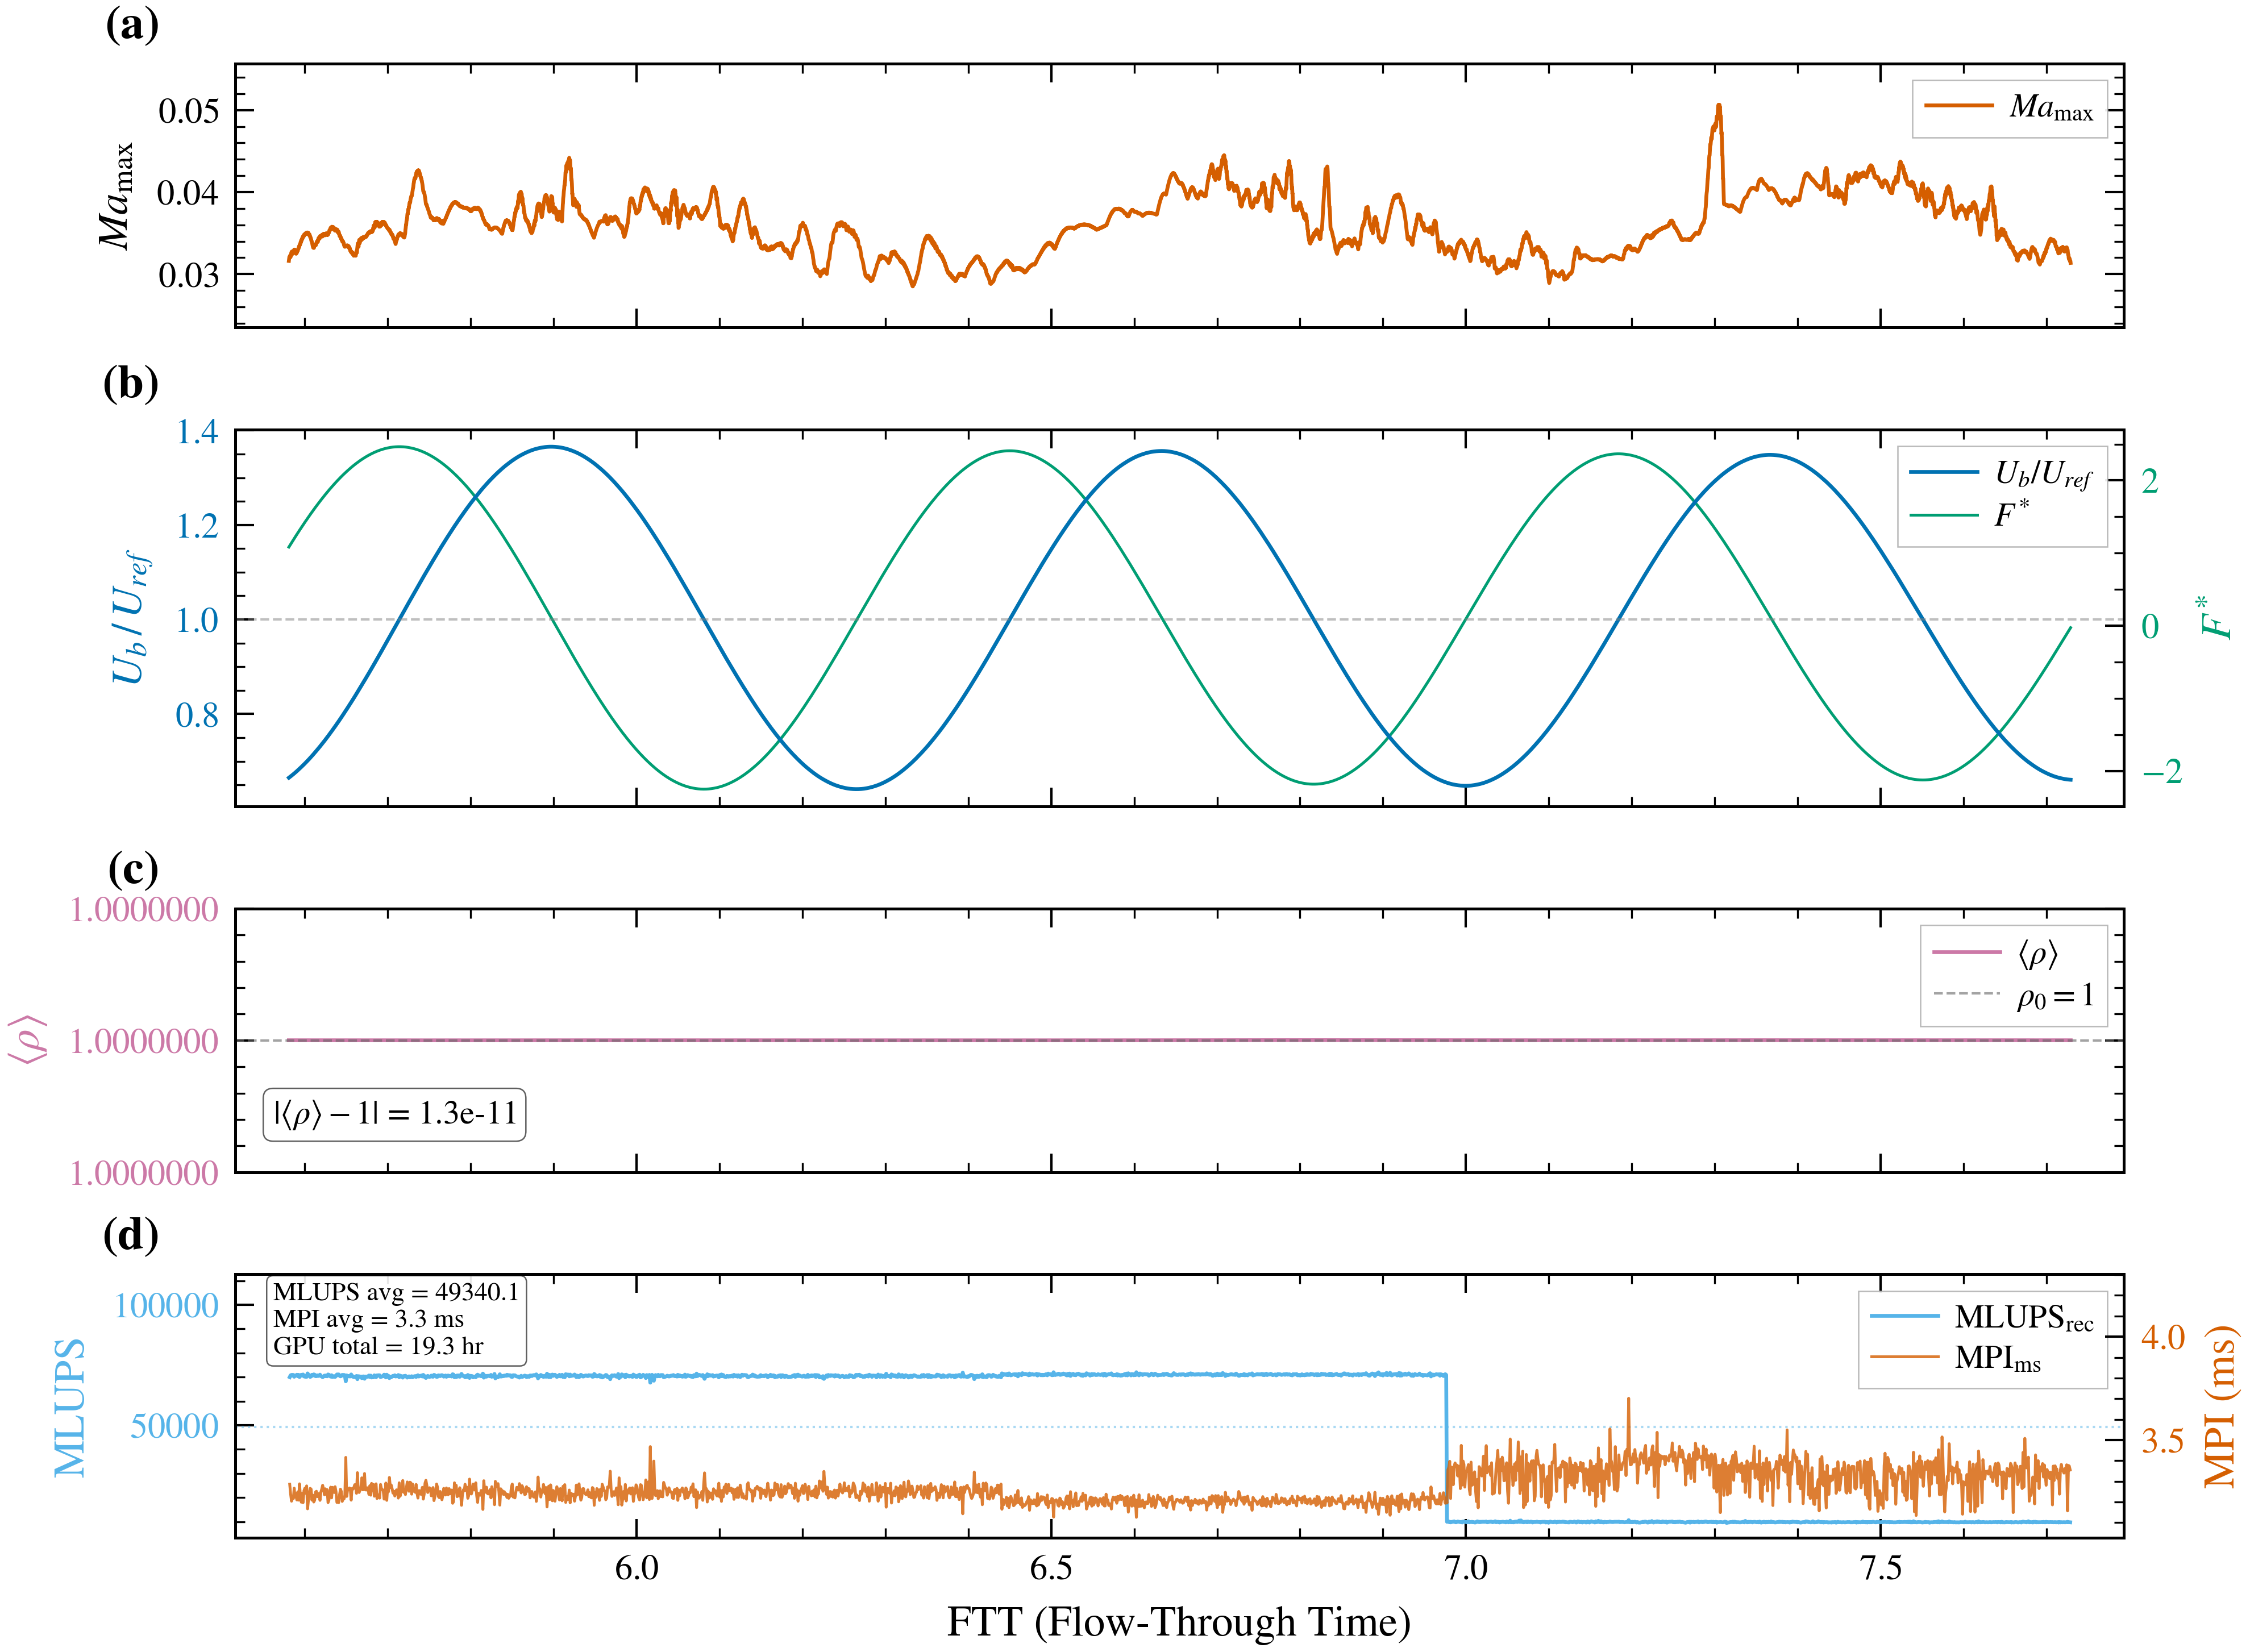
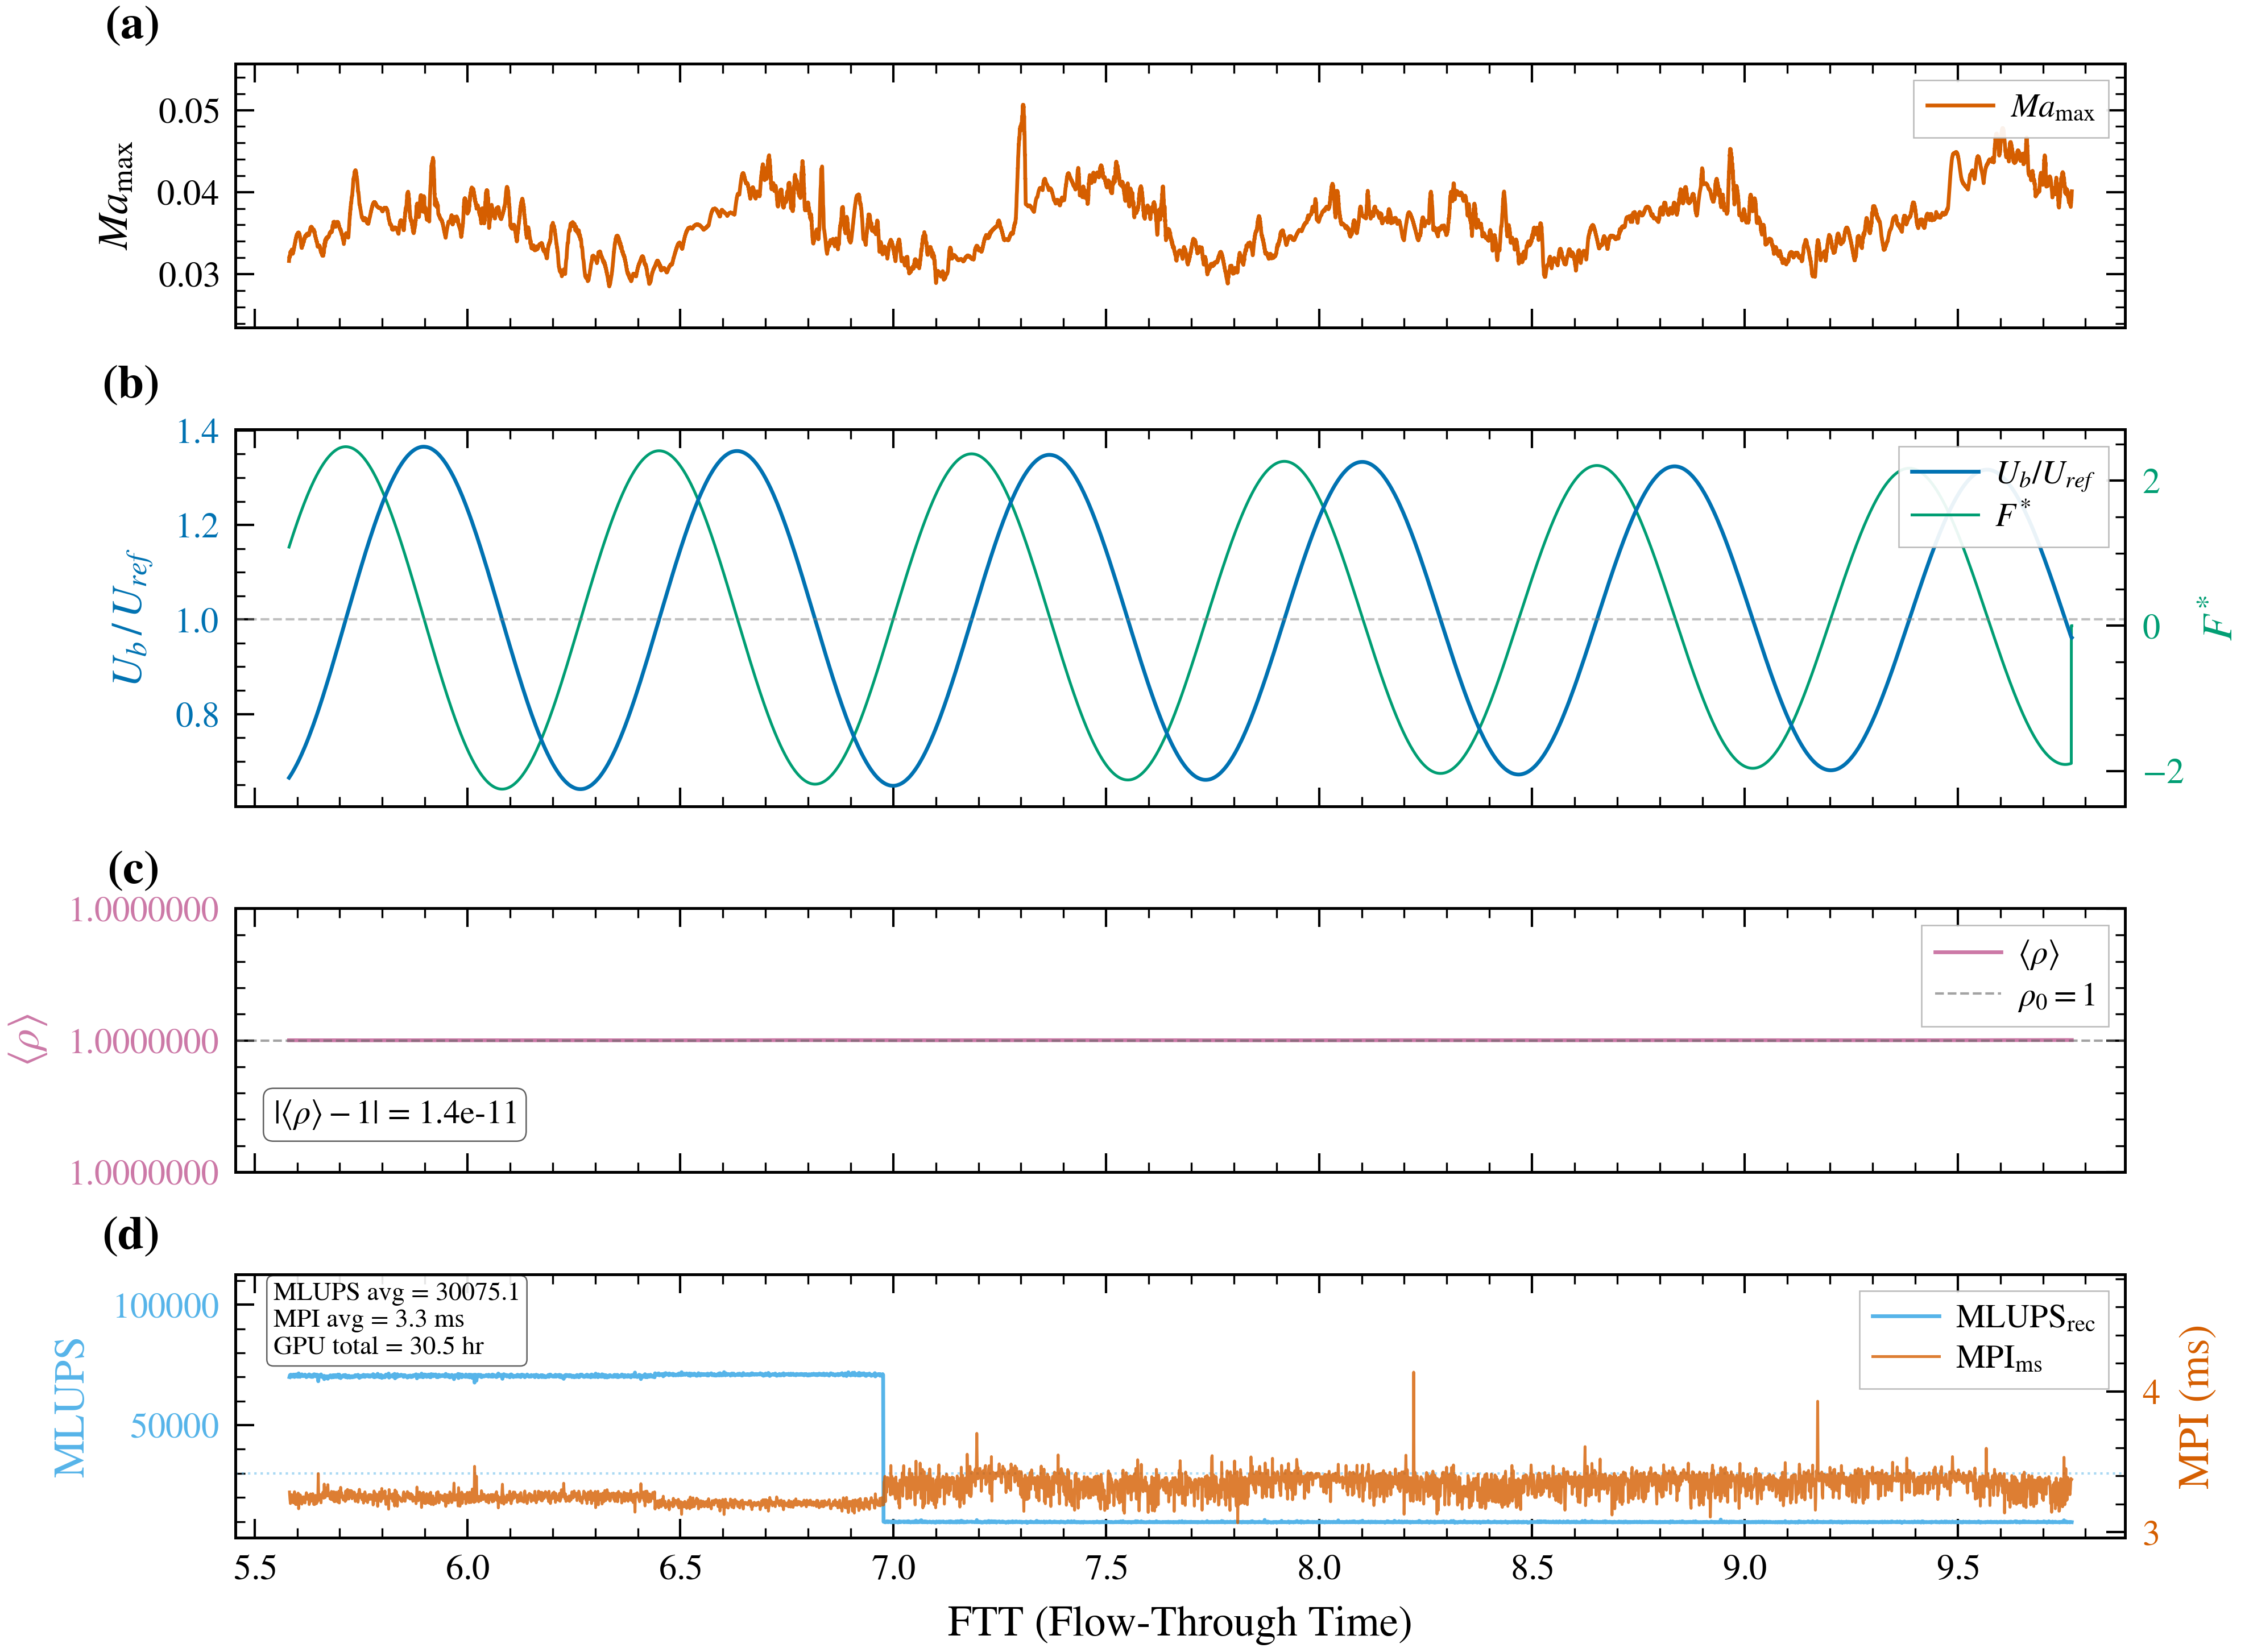
啟用 Gehrke 力控制模式（FORCE_CTRL_MODE=1）

diff --git a/variables.h b/variables.h
@@ -262,7 +262,7 @@
 //     Phase 1 (PID):    |Re%| > SWITCH_THRESHOLD
 //     Phase 2 (Gehrke): |Re%| <= SWITCH_THRESHOLD
 //     Ref: Gehrke & Rung (2020), Int J Numer Meth Fluids
-#define     FORCE_CTRL_MODE         0
+#define     FORCE_CTRL_MODE         1
 
 // ── Mode 1 專用參數 (FORCE_CTRL_MODE==0 時不生效) ──
 #define     FORCE_KP                2.0     // PID 比例增益